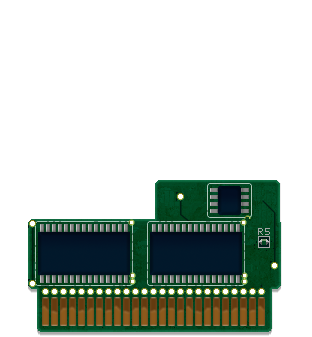
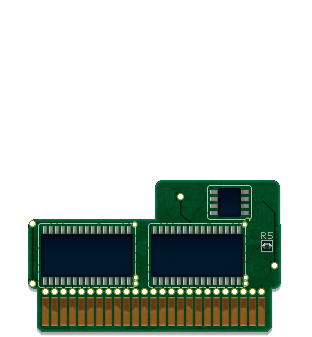
Boards: rounder board corners; the gold fingers keep the GBA's own corners
Claude-Session: https://claude.ai/code/session_01QKd2aZnZgZkwj4Ae6LDswU

Changed region(s): [[0.0865, 0.5341, 0.8942, 0.8605], [0.1154, 0.9792, 0.1442, 1.0]]

diff --git a/tools/carts/tv_boards.py b/tools/carts/tv_boards.py
@@ -54,11 +54,6 @@ st = 55  # a middle finger of the GBA board: gold from x 55, 7 wide, pitch 9
 # alternates as it does there; each cell is the via over a finger, the finger, the green under it
 def finger_cell(x0):
     c = gba[156:201, x0 - 1:x0 + 8].copy()
-    # round the gold's corners a touch more: the corner pixel and its two neighbours lean green
-    for y, sy in ((166 - 156, 1), (195 - 156, -1)):
-        for x, sx in ((1, 1), (7, -1)):
-            for (dy, dx), k in (((0, 0), 0.6), ((sy, 0), 0.25), ((0, sx), 0.25)):
-                c[y + dy, x + dx, :3] = c[y + dy, x + dx, :3] * (1 - k) + FLAT * k
     return c
 FINGERS = [finger_cell(46 + 9 * i) for i in range(8)]
 FINGER_BOTTOM = 200 - 156                       # the cell's last board row
@@ -125,8 +120,8 @@ def rr(h, w, box, r):
 BW, BH = 247, 147  # the last 4 rows hold the drop shadow
 FOOT = BH - 5       # the board's last row
 def snes_board():
-    m = rr(BH, BW, (0, 0, BW - 1, 116), 3)
-    m |= rr(BH, BW, (44, 100, 202, FOOT), 2)
+    m = rr(BH, BW, (0, 0, BW - 1, 116), 7)  # round corners, as the GBA board's
+    m |= rr(BH, BW, (44, 100, 202, FOOT), 6)
     for cx in (0, BW - 1):  # the half-round notches the shell's posts sit in
         m &= ~rr(BH, BW, (cx - 5, 53, cx + 5, 63), 5)
     x0, n = 48, 17
@@ -157,9 +152,9 @@ def nes_board():
     a wide body, a narrower piece on top at the right, and a tab with the fingers that fits
     the cart's narrower foot."""
     h, w = 337, 312
-    m = rr(h, w, (28, 219, 280, 288), 5)
-    m |= rr(h, w, (155, 180, 279, 230), 5)
-    m |= rr(h, w, (37, 270, 271, 331), 4)
+    m = rr(h, w, (28, 219, 280, 288), 7)
+    m |= rr(h, w, (155, 180, 279, 230), 7)
+    m |= rr(h, w, (37, 270, 271, 331), 6)
     x0, n = 37 + (234 - 25 * 9) // 2, 25
     traces, vias = [], []
     for k in range(n):
@@ -168,8 +163,8 @@ def nes_board():
             traces.append([(x, 292), (x, 284)])
     traces += [[(180, 199), (180, 214), (190, 222)], [(262, 200), (274, 212), (274, 262)], [(32, 226), (32, 280)]]
     vias += [(274, 265), (180, 196), (32, 223), (32, 283)]
-    chips = [(CHIP_BIG, 34, 219), (CHIP_BIG, 146, 219), (CHIP_SMALL, 206, 182)]
-    parts = [(PART, 254, 222)]
+    chips = [(CHIP_BIG, 37, 221), (CHIP_BIG, 147, 221), (CHIP_SMALL, 206, 184)]
+    parts = [(PART, 257, 226)]
     return build(m, (x0, n, 331), chips, parts, vias, traces)
 
 Image.fromarray(nes_board(), 'RGBA').save('assets/nes_board.png', optimize=True)
